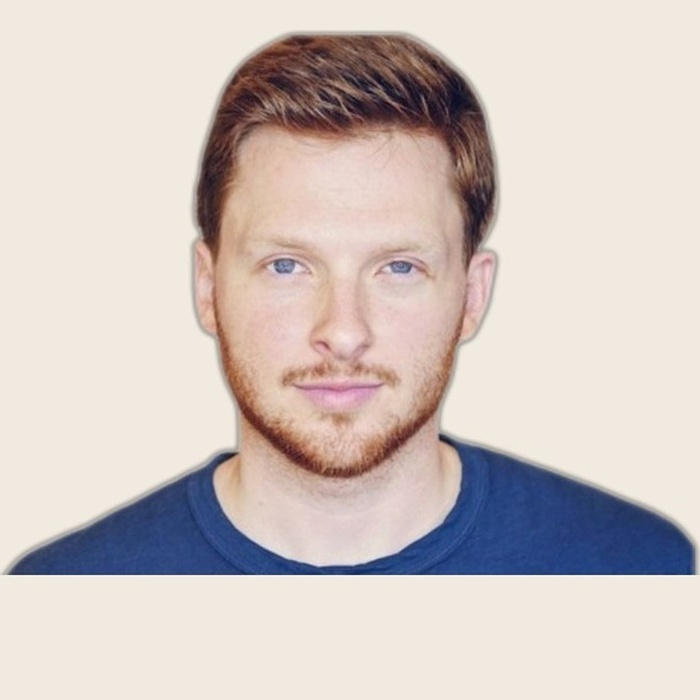
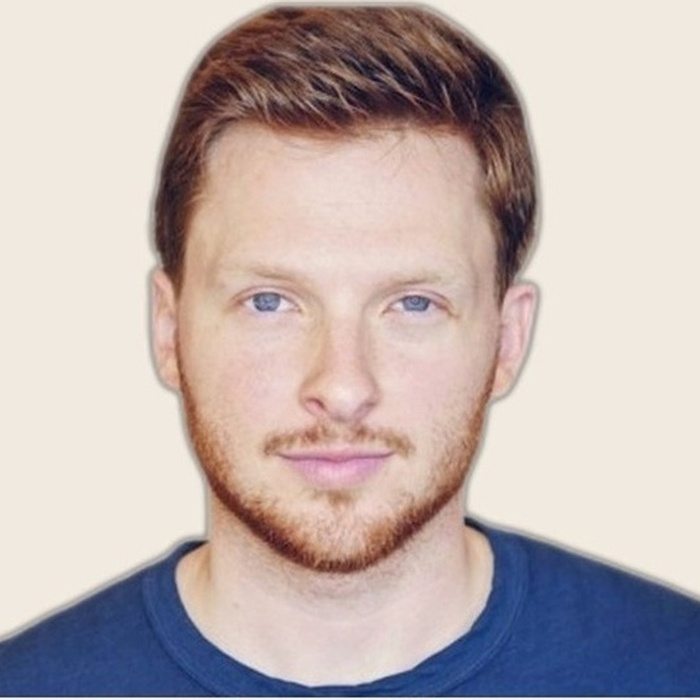
Mark/Bruna: square center-crop fills frame edge-to-edge; daypass body text 34px

diff --git a/index.html b/index.html
@@ -886,8 +886,8 @@ nav a.nav-pill.gold:hover {
 .daypass-title em { font-style: italic; color: var(--sand); }
 
 .daypass-body {
-  font-size: 26px;
-  line-height: 1.7;
+  font-size: 34px;
+  line-height: 1.6;
   color: rgba(245,240,232,0.75);
   margin-bottom: 36px;
 }